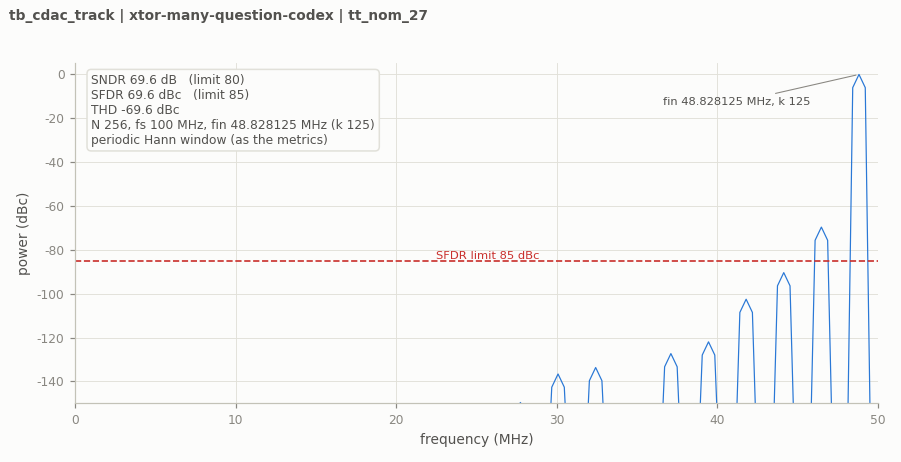
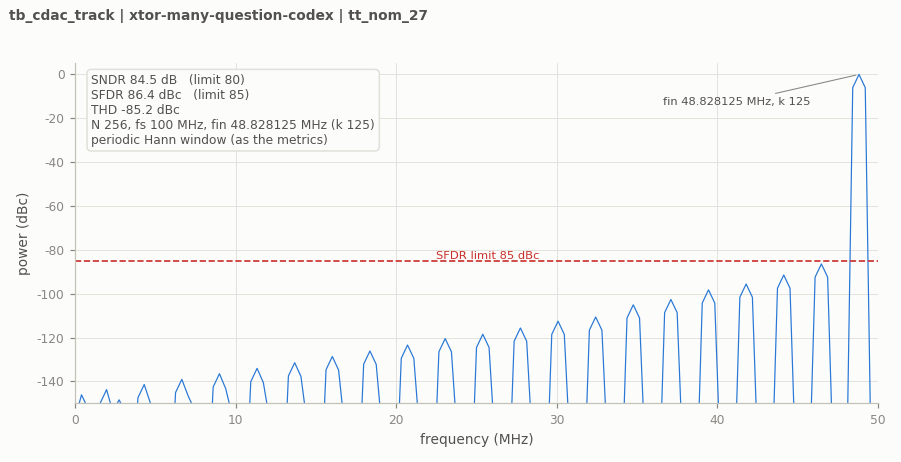
test(adc_cdac): record passing 256-point TT main

diff --git a/design/xtor/adc_cdac/many-question-codex/sampling-entry-diagnosis.md b/design/xtor/adc_cdac/many-question-codex/sampling-entry-diagnosis.md
@@ -1260,6 +1260,88 @@ Official figures have been inspected. Complete recovered jobs contain
 10 weights files and nine settling files; each has a 50-file staged-input
 snapshot verified against the remote inputs. Archive recovery and local
 file hashes were verified before removing each exact owned remote run.
-The original shared testbench runs remain available. The next physical
-job is the official 256-point tracking main run; the old tracking failure
-is still present with its genuine stale fingerprint at this stage.
+The original shared testbench runs remain available. At that checkpoint,
+the next job was official 256-point tracking and its previous failure
+still had a genuine stale fingerprint. The newly completed run follows.
+
+## Promoted source: complete official 256-point main record
+
+The current unmodified official tracking flow completed on clean commit
+`9a68c59`, using the promoted N4 source, TT, APS, and one job. It passed
+both required spectral metrics. All 17 required TT main metrics now pass,
+but the prescribed numerical twin and its margin audit remain pending.
+The candidate stays WIP and this is not a convergence or full-corner
+acceptance claim. The previous failed source and actual failed results
+remain in the pre-N4 history tag.
+
+| Requirement | Current official TT main value | Limit | Verdict |
+|---|---:|---:|---|
+| DAC-01 sampled capacitance | 2.065012 pF | 1.98–2.12 pF | Pass |
+| DAC-02 full scale | 0.993034 V | >=0.97 V | Pass |
+| DAC-03 calibration margin | 0.369061 LSB | >=0 LSB | Pass |
+| DAC-04 TOP gain | 0.893800 | >=0.78 | Pass |
+| DAC-05 RL5 settling | 47.3 ps | <=75 ps | Pass |
+| DAC-06 RL12 settling | 35.3 ps | <=40 ps | Pass |
+| DAC-07 time constant | 9.120184 ps | <=15 ps | Pass |
+| DAC-08 conversion-start settling | 83.4 ps | <=100 ps | Pass |
+| DAC-09 tracking SFDR | 86.417967 dBc | >=85 dBc | Pass |
+| DAC-10 tracking SNDR | 84.523549 dB | >=80 dB | Pass |
+| DAC-11 hold droop | 0.004380784 LSB | <=0.1 LSB | Pass |
+| DAC-12 reference charge | 1.124389535 pC | <=1.2 pC | Pass |
+| DAC-13 DH5 input capacitance | 0.830865 fF | <=6 fF | Pass |
+| DAC-14 calibrated ENOB loss | 0.000364369 bit | <=0.02 bit | Pass |
+| DAC-15 PHI_S input capacitance | 6.432310 fF | <=40 fF | Pass |
+| DAC-16 PHI_SB input capacitance | 12.231291 fF | <=40 fF | Pass |
+| DAC-17 CONV input capacitance | 9.850052 fF | <=80 fF | Pass |
+
+The tracking main reports THD -85.235595 dBc and sampled half-range
+0.788085132 V. Its SFDR/SNDR margins are 1.417967/4.523549 dB. It took
+8,567 seconds, compared with the rough earlier 122-minute estimate.
+Actual settings are reltol 1e-7, voltage tolerance 1e-8, maxstep 1 ps,
+traponly, moderate errpreset, and lteratio 3.5. There are 3,729,396
+accepted steps with mean spacing 0.698505 ps.
+
+The complete sampler file has exactly indices 1 through 256, all finite,
+from 45.426 to 2595.426 ns. The largest deviation of the printed sample
+times from their 10 ns grid is 0.001 ps; this is not an independent jitter
+measurement. Preparation selected 48.828125 MHz at 100 MS/s, giving
+125 cycles in 256 samples with coprime bin and record length. The original
+four-cycle warmup, -1 dBFS input, 50 ohm source per half, 20 fF external
+TOP load per half, 300 ps sampling delay after CONV, and 2605 ns stop
+time are unchanged. No sample was dropped or selected for acceptance.
+The official metrics recomputed from all samples agree exactly with the
+recorded values, and the official spectrum figure has been inspected.
+
+The largest spur is bin 119, the aliased third harmonic. Full-record
+fixed-frequency fits give fundamental 0.788182821 V, h3 -86.417725 dBc
+(37.647895 uV peak), h5 -91.465043 dBc (21.055948 uV), and h7
+-95.576838 dBc (13.115506 uV). Removing only DC and the fundamental
+leaves residual RMS 33.106962 uV and maximum 89.324746 uV. Fitting
+h1 through h21 leaves 0.772669 uV RMS; that remainder is not a thermal
+noise measurement. Odd/all bases through h7/h21 change full-record h3
+by only 0.000000252 dB. Across all 129 sliding 128-sample h1-through-h21
+fits, h3 ranges from -86.422389 to -86.412766 dBc, a 0.009622 dB span.
+These are read-only sensitivity checks on the complete record, not new
+128-point simulations or substitute acceptance windows.
+
+The first 48 samples agree with the earlier frozen N4 diagnostic to
+0.00041249 uV RMS and 0.00285570 uV maximum, with maximum printed-time
+difference 0.0007 ps. That diagnostic retained ideal measurement probes
+and analog saves; the agreement is not the prescribed numerical twin.
+
+The official TB uses save=none and outputstart=tstop. Its complete
+sampler record therefore does not provide complete analog waveforms or
+extend the prior 125 ns all-MOS terminal-pair coverage. The log retains
+26 warnings, six notices, and 56,143,339 suppressed warning occurrences,
+with zero errors. Model checks remain distinct from the project's
+gs/gd/ds limit. The earlier 125 ns maximum still has only 9.775 mV
+headroom and does not establish all-phase or actual-bootstrap stress.
+
+All eight raw job files and the 50-file staged-input snapshot have been
+recovered, hashed, and checked against the complete archive. Analysis,
+plots, and their exact script are retained with the recovery record.
+Only the uniquely owned completed run directory was removed; shared
+testbench runs remain intact. The next run is the prescribed 0.5 ps,
+gear2only numerical twin on this same physical source, with the original
+main samples retained for the official comparison. Its result must be
+assessed against the measured margins before claiming TT convergence.

diff --git a/design/xtor/adc_cdac/many-question-codex/README.md b/design/xtor/adc_cdac/many-question-codex/README.md
@@ -96,13 +96,13 @@ stress. Those failures have not been erased or marked as passes.
 Promoting the new source makes those old result fingerprints stale.
 The current official TT weights and settling tests have now been rerun
 on clean source commit `14881ba`, passing all 5 + 10 required metrics.
-The selected next
-spectral check is the project's complete coherent 256-point record,
-with official preparation, analysis, and figures; no additional 128-point
-diagnostic is planned. Main tracking runtime is roughly 122 minutes,
-excluding retrieval/analysis and a separate required convergence check.
-A failing main result requires an audit before a cross-check run; a
-passing main result still requires the specified numerical comparison.
+The complete official coherent 256-point tracking main run has also
+passed on clean commit `9a68c59`: SFDR 86.417967 dBc against 85 dBc,
+SNDR 84.523549 dB against 80 dB, and reported THD -85.235595 dBc.
+It took 8,567 seconds (about 143 minutes). The SFDR/SNDR margins are
+1.417967/4.523549 dB. The prescribed numerical comparison remains
+pending; a passing main result alone does not establish convergence.
+No additional 128-point simulation is planned.
 
 The current project tracking settings are reltol 1e-7, voltage tolerance
 1e-8, maxstep 1 ps, and traponly; its cross-check uses 0.5 ps and gear2only.
@@ -120,10 +120,25 @@ table above. Official settling uses reltol 0.001, voltage tolerance
 | Qref | 1.124389535 pC |
 | DH5 / PHI_S / PHI_SB / CONV capacitance | 0.830865 / 6.432310 / 12.231291 / 9.850052 fF |
 
-Both formal results and their inspected evidence figures are fresh for
-the promoted source. The original failed tracking record is still stale
-and retained until the new official tracking run produces its result.
-No full TT linearity or convergence pass is claimed yet.
+All three formal results and their inspected evidence figures are fresh
+for the promoted source; all 17 required TT main metrics now pass. The
+older failed records remain in the linked history tag.
+
+The tracking record contains all 256 sample indices, from 45.426 to
+2595.426 ns, after the original four-cycle warmup. At 100 MS/s and
+48.828125 MHz it covers exactly 125 input cycles. Official metrics
+recomputed from the complete record agree exactly. The largest spur is
+bin 119, the aliased third harmonic. Across all 129 sliding 128-sample
+fixed-frequency h1-through-h21 fits, h3 spans only 0.009622 dB; those
+fits are sensitivity diagnostics, not substitute acceptance windows.
+
+The main run used 3,729,396 accepted steps, with mean spacing 0.698505 ps.
+The official tracking TB saves sampler outputs rather than the complete
+analog transient, so this record does not extend the separate 125 ns
+all-MOS stress check. Model warnings are retained. The exact raw job and
+input snapshot are archived and recovery-verified. The required
+0.5 ps / gear2only twin is the next physical run; no convergence or
+complete TT acceptance is claimed before its margin comparison.
 
 The candidate acknowledges notices #17 and #37. PVT, actual-bootstrap
 integration, supply startup, long-hold behavior, full corner coverage,
